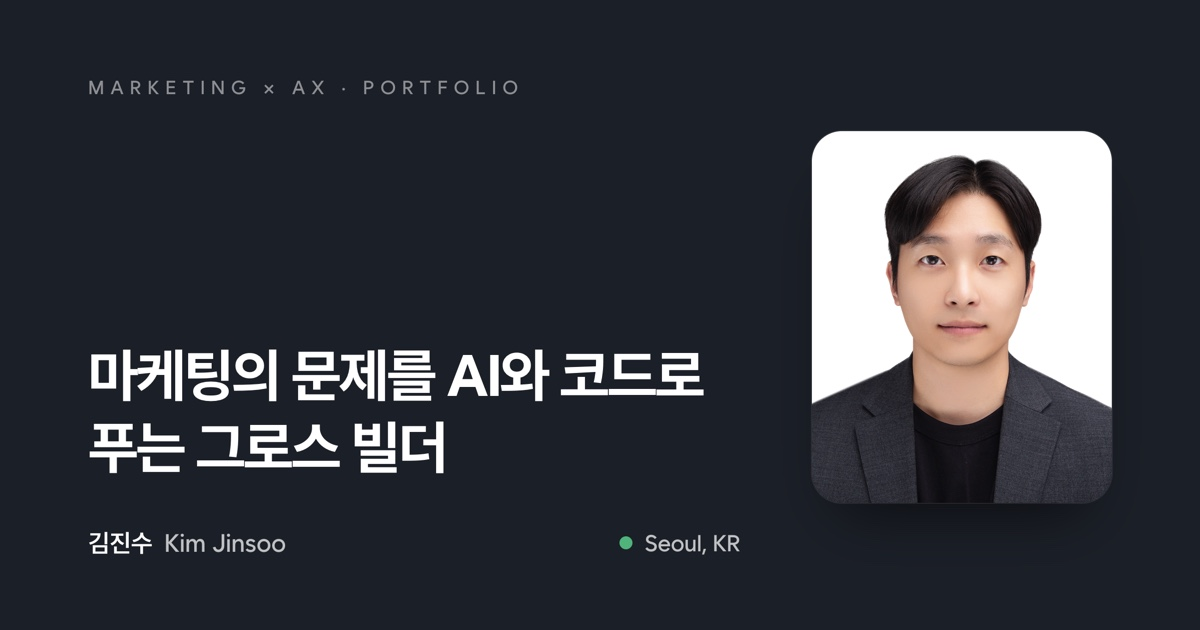
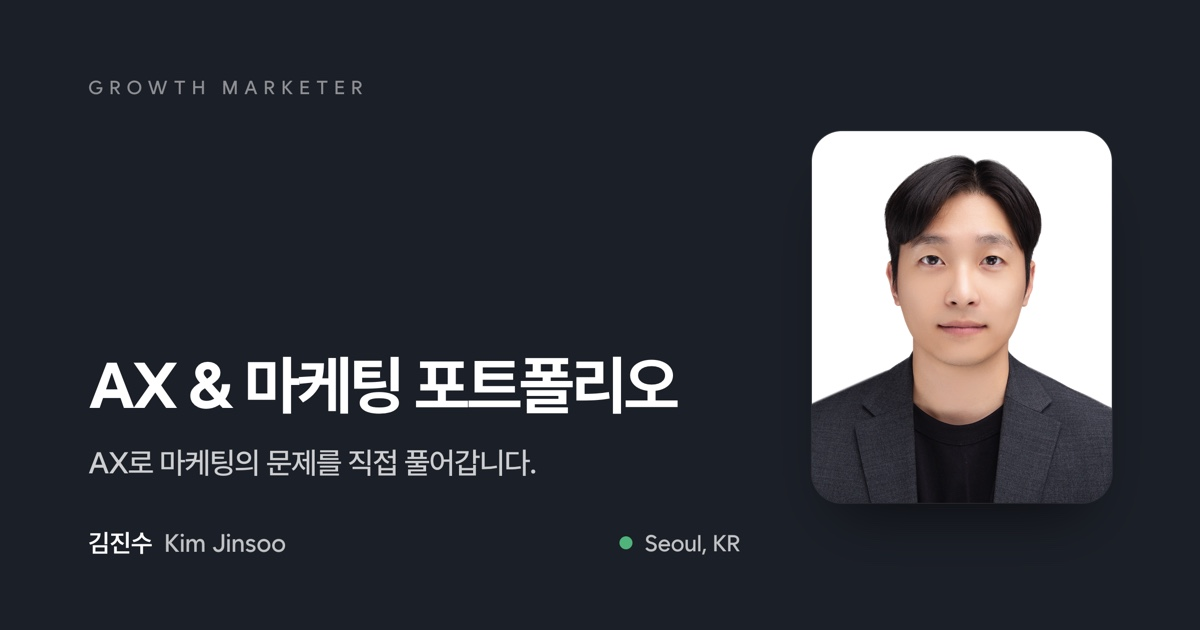
style(og): 공유 미리보기 제목 'AX & 마케팅 포트폴리오' + 한 문장 'AX로 마케팅의 문제를 직접 풀어갑니다.'

Changed region(s): [[0.0617, 0.5429, 0.5858, 0.754], [0.0617, 0.1206, 0.4317, 0.1508]]

diff --git a/portfolio.html b/portfolio.html
@@ -3,26 +3,26 @@
 <head>
 <meta charset="utf-8" />
 <meta name="viewport" content="width=device-width, initial-scale=1" />
-<title>김진수 · 마케팅 포트폴리오</title>
+<title>김진수 · AX & 마케팅 포트폴리오</title>
 <!-- 공유 미리보기(OG): 메신저·SNS는 JS를 실행하지 않고 이 태그만 읽음 · 이미지 원본 = og/og-portfolio.html -->
-<meta name="description" content="마케팅의 문제를 AI와 코드로 푸는 그로스 빌더. 퍼포먼스·브랜딩·CRM·커머스를 거쳐, 지금은 사내 마케팅 콘솔을 직접 만들어 일하는 방식을 바꿉니다." />
+<meta name="description" content="AX로 마케팅의 문제를 직접 풀어갑니다. 퍼포먼스·브랜딩·CRM·커머스를 거쳐, 지금은 사내 마케팅 콘솔을 직접 만들어 일하는 방식을 바꿉니다." />
 <link rel="canonical" href="https://kimjinsoo-mkt-ax.vercel.app/portfolio" />
 <meta property="og:type" content="website" />
 <meta property="og:site_name" content="Kim Jinsoo Portfolio" />
 <meta property="og:locale" content="ko_KR" />
 <meta property="og:url" content="https://kimjinsoo-mkt-ax.vercel.app/portfolio" />
-<meta property="og:title" content="김진수 · 마케팅 포트폴리오" />
-<meta property="og:description" content="마케팅의 문제를 AI와 코드로 푸는 그로스 빌더. 퍼포먼스·브랜딩·CRM·커머스를 거쳐, 지금은 사내 마케팅 콘솔을 직접 만들어 일하는 방식을 바꿉니다." />
-<meta property="og:image" content="https://kimjinsoo-mkt-ax.vercel.app/og/portfolio.jpg?v=2" />
-<meta property="og:image:secure_url" content="https://kimjinsoo-mkt-ax.vercel.app/og/portfolio.jpg?v=2" />
+<meta property="og:title" content="김진수 · AX & 마케팅 포트폴리오" />
+<meta property="og:description" content="AX로 마케팅의 문제를 직접 풀어갑니다. 퍼포먼스·브랜딩·CRM·커머스를 거쳐, 지금은 사내 마케팅 콘솔을 직접 만들어 일하는 방식을 바꿉니다." />
+<meta property="og:image" content="https://kimjinsoo-mkt-ax.vercel.app/og/portfolio.jpg?v=3" />
+<meta property="og:image:secure_url" content="https://kimjinsoo-mkt-ax.vercel.app/og/portfolio.jpg?v=3" />
 <meta property="og:image:type" content="image/jpeg" />
 <meta property="og:image:width" content="1200" />
 <meta property="og:image:height" content="630" />
-<meta property="og:image:alt" content="김진수 마케팅 포트폴리오 — 마케팅의 문제를 AI와 코드로 푸는 그로스 빌더" />
+<meta property="og:image:alt" content="김진수 AX & 마케팅 포트폴리오 — AX로 마케팅의 문제를 직접 풀어갑니다" />
 <meta name="twitter:card" content="summary_large_image" />
-<meta name="twitter:title" content="김진수 · 마케팅 포트폴리오" />
-<meta name="twitter:description" content="마케팅의 문제를 AI와 코드로 푸는 그로스 빌더. 퍼포먼스·브랜딩·CRM·커머스를 거쳐, 지금은 사내 마케팅 콘솔을 직접 만들어 일하는 방식을 바꿉니다." />
-<meta name="twitter:image" content="https://kimjinsoo-mkt-ax.vercel.app/og/portfolio.jpg?v=2" />
+<meta name="twitter:title" content="김진수 · AX & 마케팅 포트폴리오" />
+<meta name="twitter:description" content="AX로 마케팅의 문제를 직접 풀어갑니다. 퍼포먼스·브랜딩·CRM·커머스를 거쳐, 지금은 사내 마케팅 콘솔을 직접 만들어 일하는 방식을 바꿉니다." />
+<meta name="twitter:image" content="https://kimjinsoo-mkt-ax.vercel.app/og/portfolio.jpg?v=3" />
 <style>
   html,body{margin:0;height:100%;background:#e9eaec;font-family:ui-sans-serif,system-ui,"Malgun Gothic",sans-serif}
   #frame{border:0;width:100%;height:100vh;display:block;background:#e9eaec}

diff --git a/og/og-portfolio.html b/og/og-portfolio.html
@@ -13,7 +13,8 @@
   .card{position:relative;display:grid;grid-template-columns:1fr 300px;gap:72px;height:100%;padding:76px 88px 72px}
   .l{display:flex;flex-direction:column;min-width:0}
   .lb{font-size:19px;font-weight:500;letter-spacing:.32em;color:rgba(255,255,255,.5)}
-  h1{margin-top:auto;white-space:nowrap;font-size:58px;font-weight:700;line-height:1.24;letter-spacing:-.04em}
+  h1{margin-top:auto;white-space:nowrap;font-size:64px;font-weight:700;line-height:1.15;letter-spacing:-.045em}
+  .one{margin-top:20px;font-size:30px;font-weight:500;line-height:1.4;letter-spacing:-.03em;color:rgba(255,255,255,.78)}
   .ft{display:flex;align-items:center;justify-content:space-between;margin-top:44px}
   .nm{font-size:25px;font-weight:500;color:rgba(255,255,255,.72);letter-spacing:-.01em}
   .nm b{margin-right:12px;font-weight:600;color:#fff}
@@ -26,8 +27,9 @@
 <body>
   <div class="card">
     <div class="l">
-      <p class="lb">MARKETING × AX · PORTFOLIO</p>
-      <h1>마케팅의 문제를 AI와 코드로<br>푸는 그로스 빌더</h1>
+      <p class="lb">GROWTH MARKETER</p>
+      <h1>AX &amp; 마케팅 포트폴리오</h1>
+      <p class="one">AX로 마케팅의 문제를 직접 풀어갑니다.</p>
       <div class="ft"><p class="nm"><b>김진수</b>Kim Jinsoo</p><p class="loc"><i></i>Seoul, KR</p></div>
     </div>
     <div class="ph"><img src="https://qmabsrqpzbqvledywxtl.supabase.co/storage/v1/object/public/media/12ca909a-d9ae-4796-89af-57467df61a48/1790341964038-10r14r.jpg" alt=""></div>
